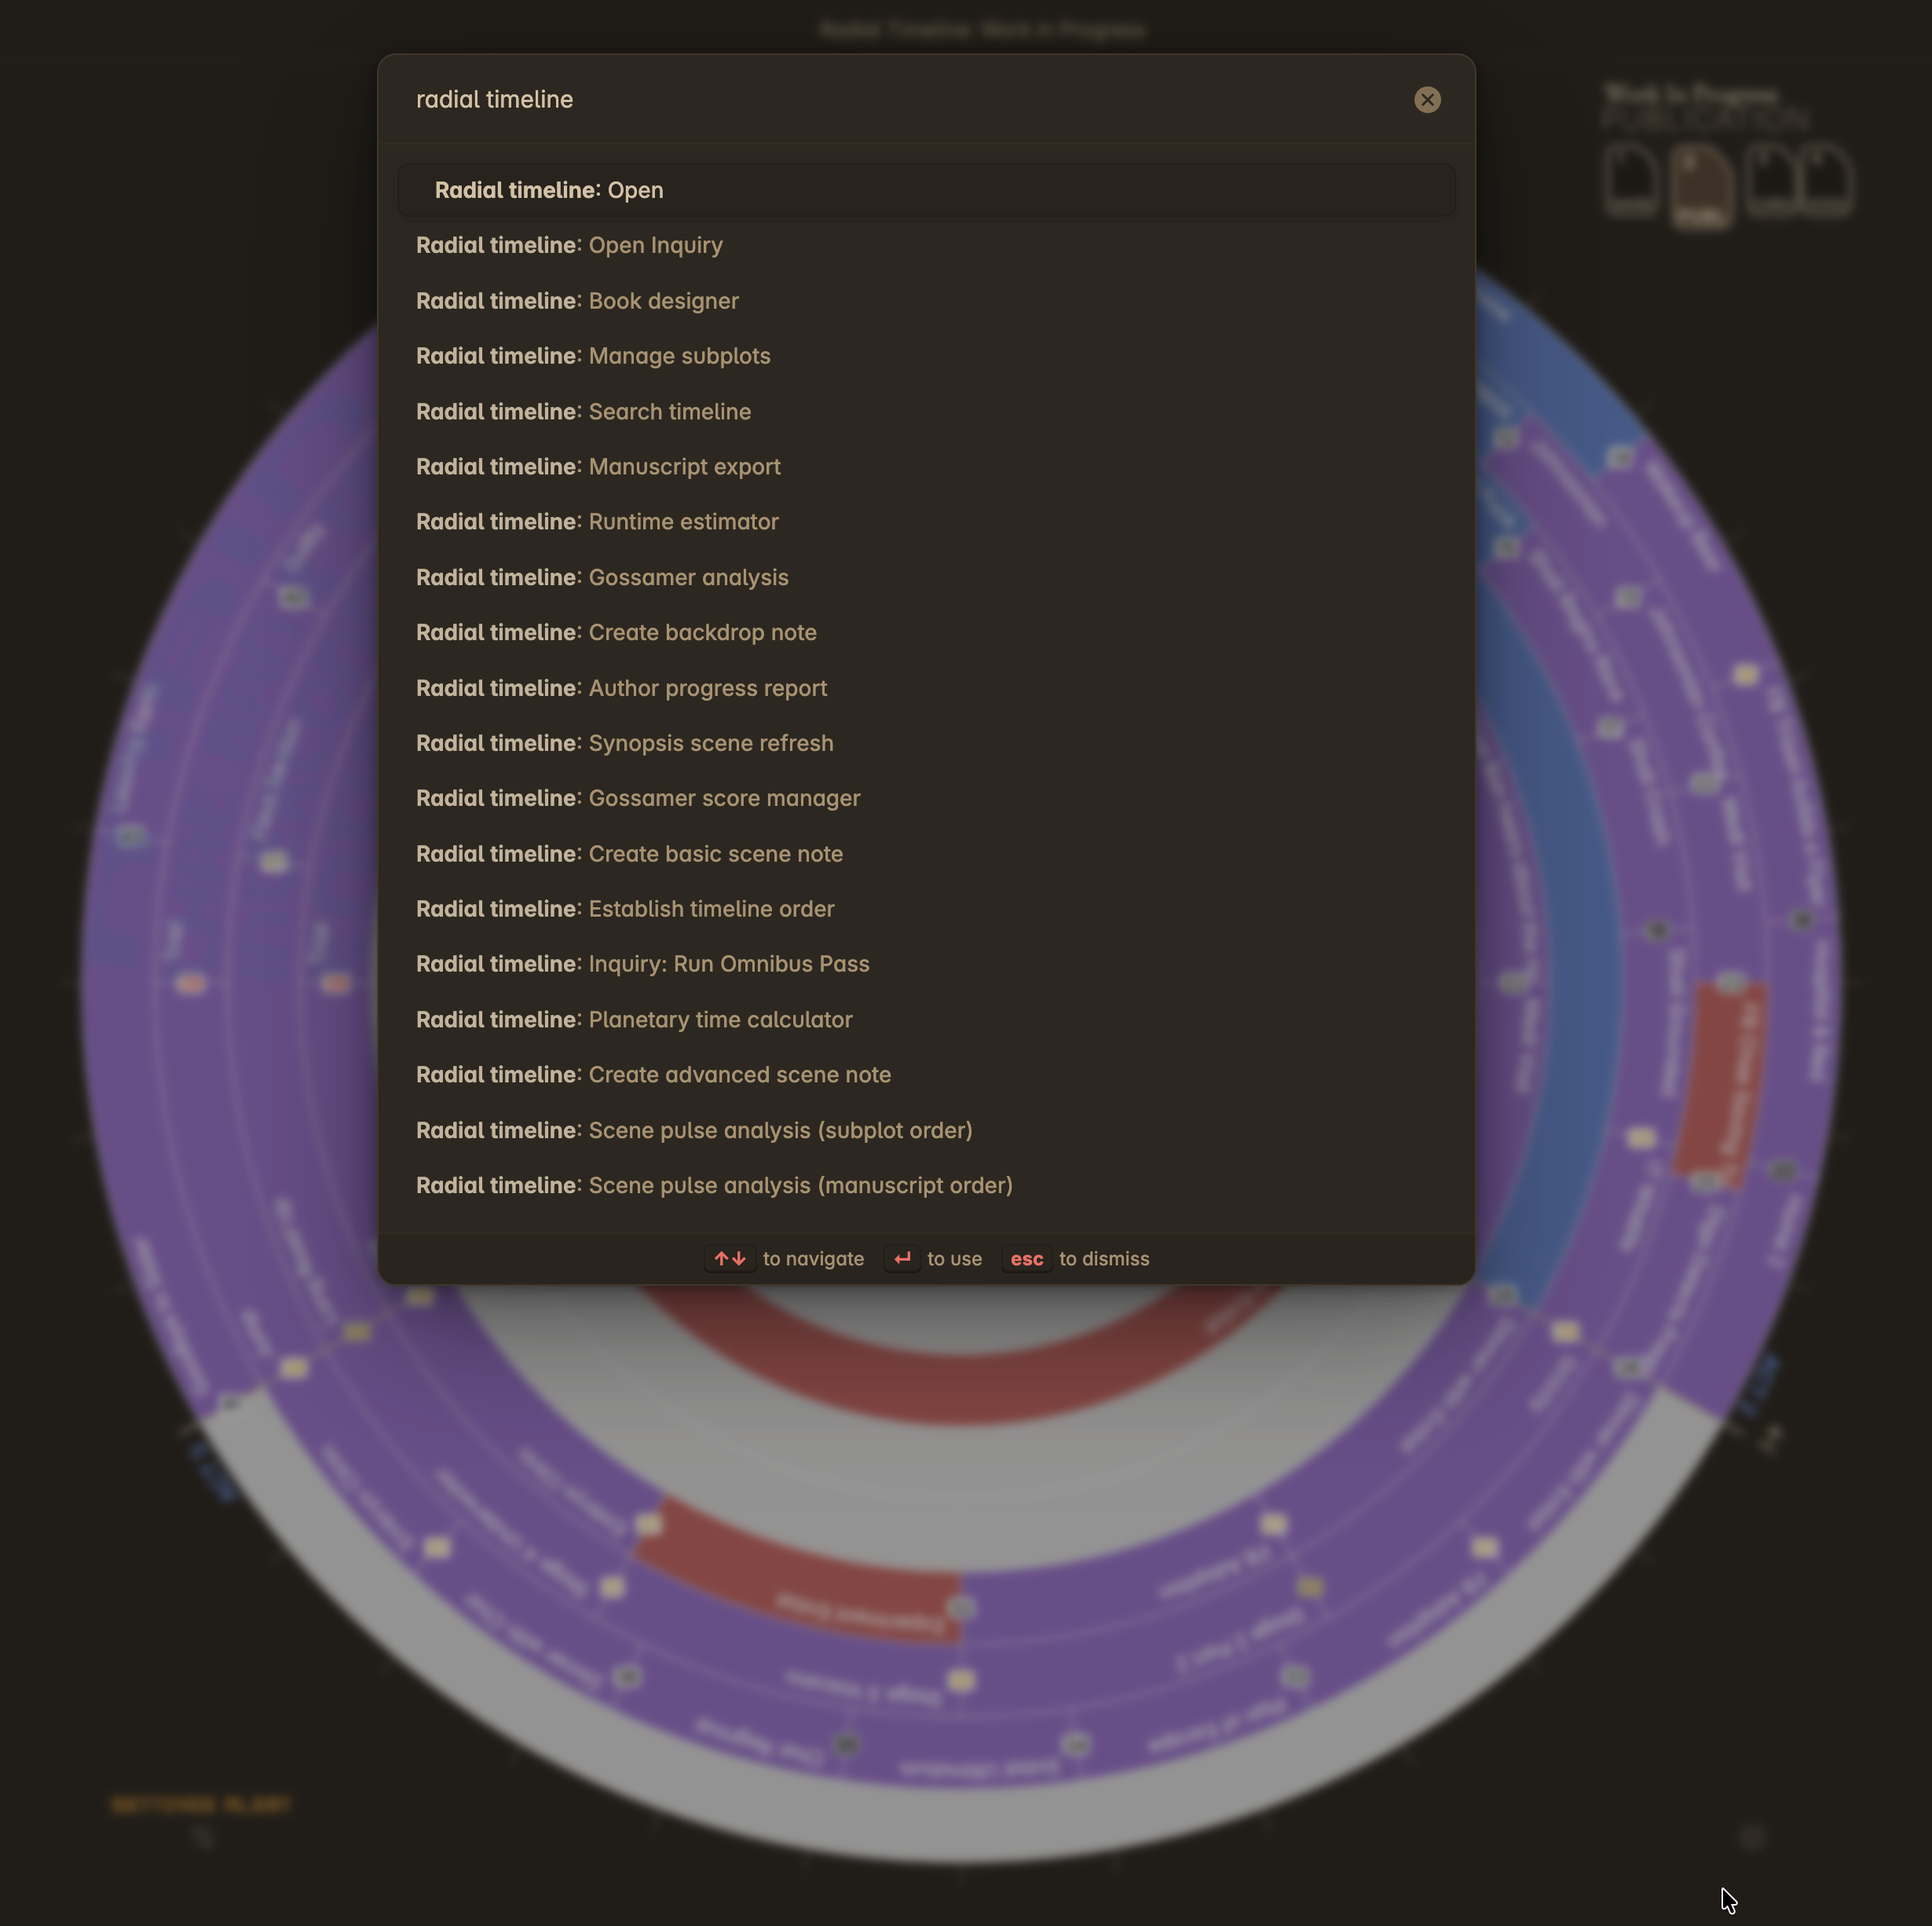
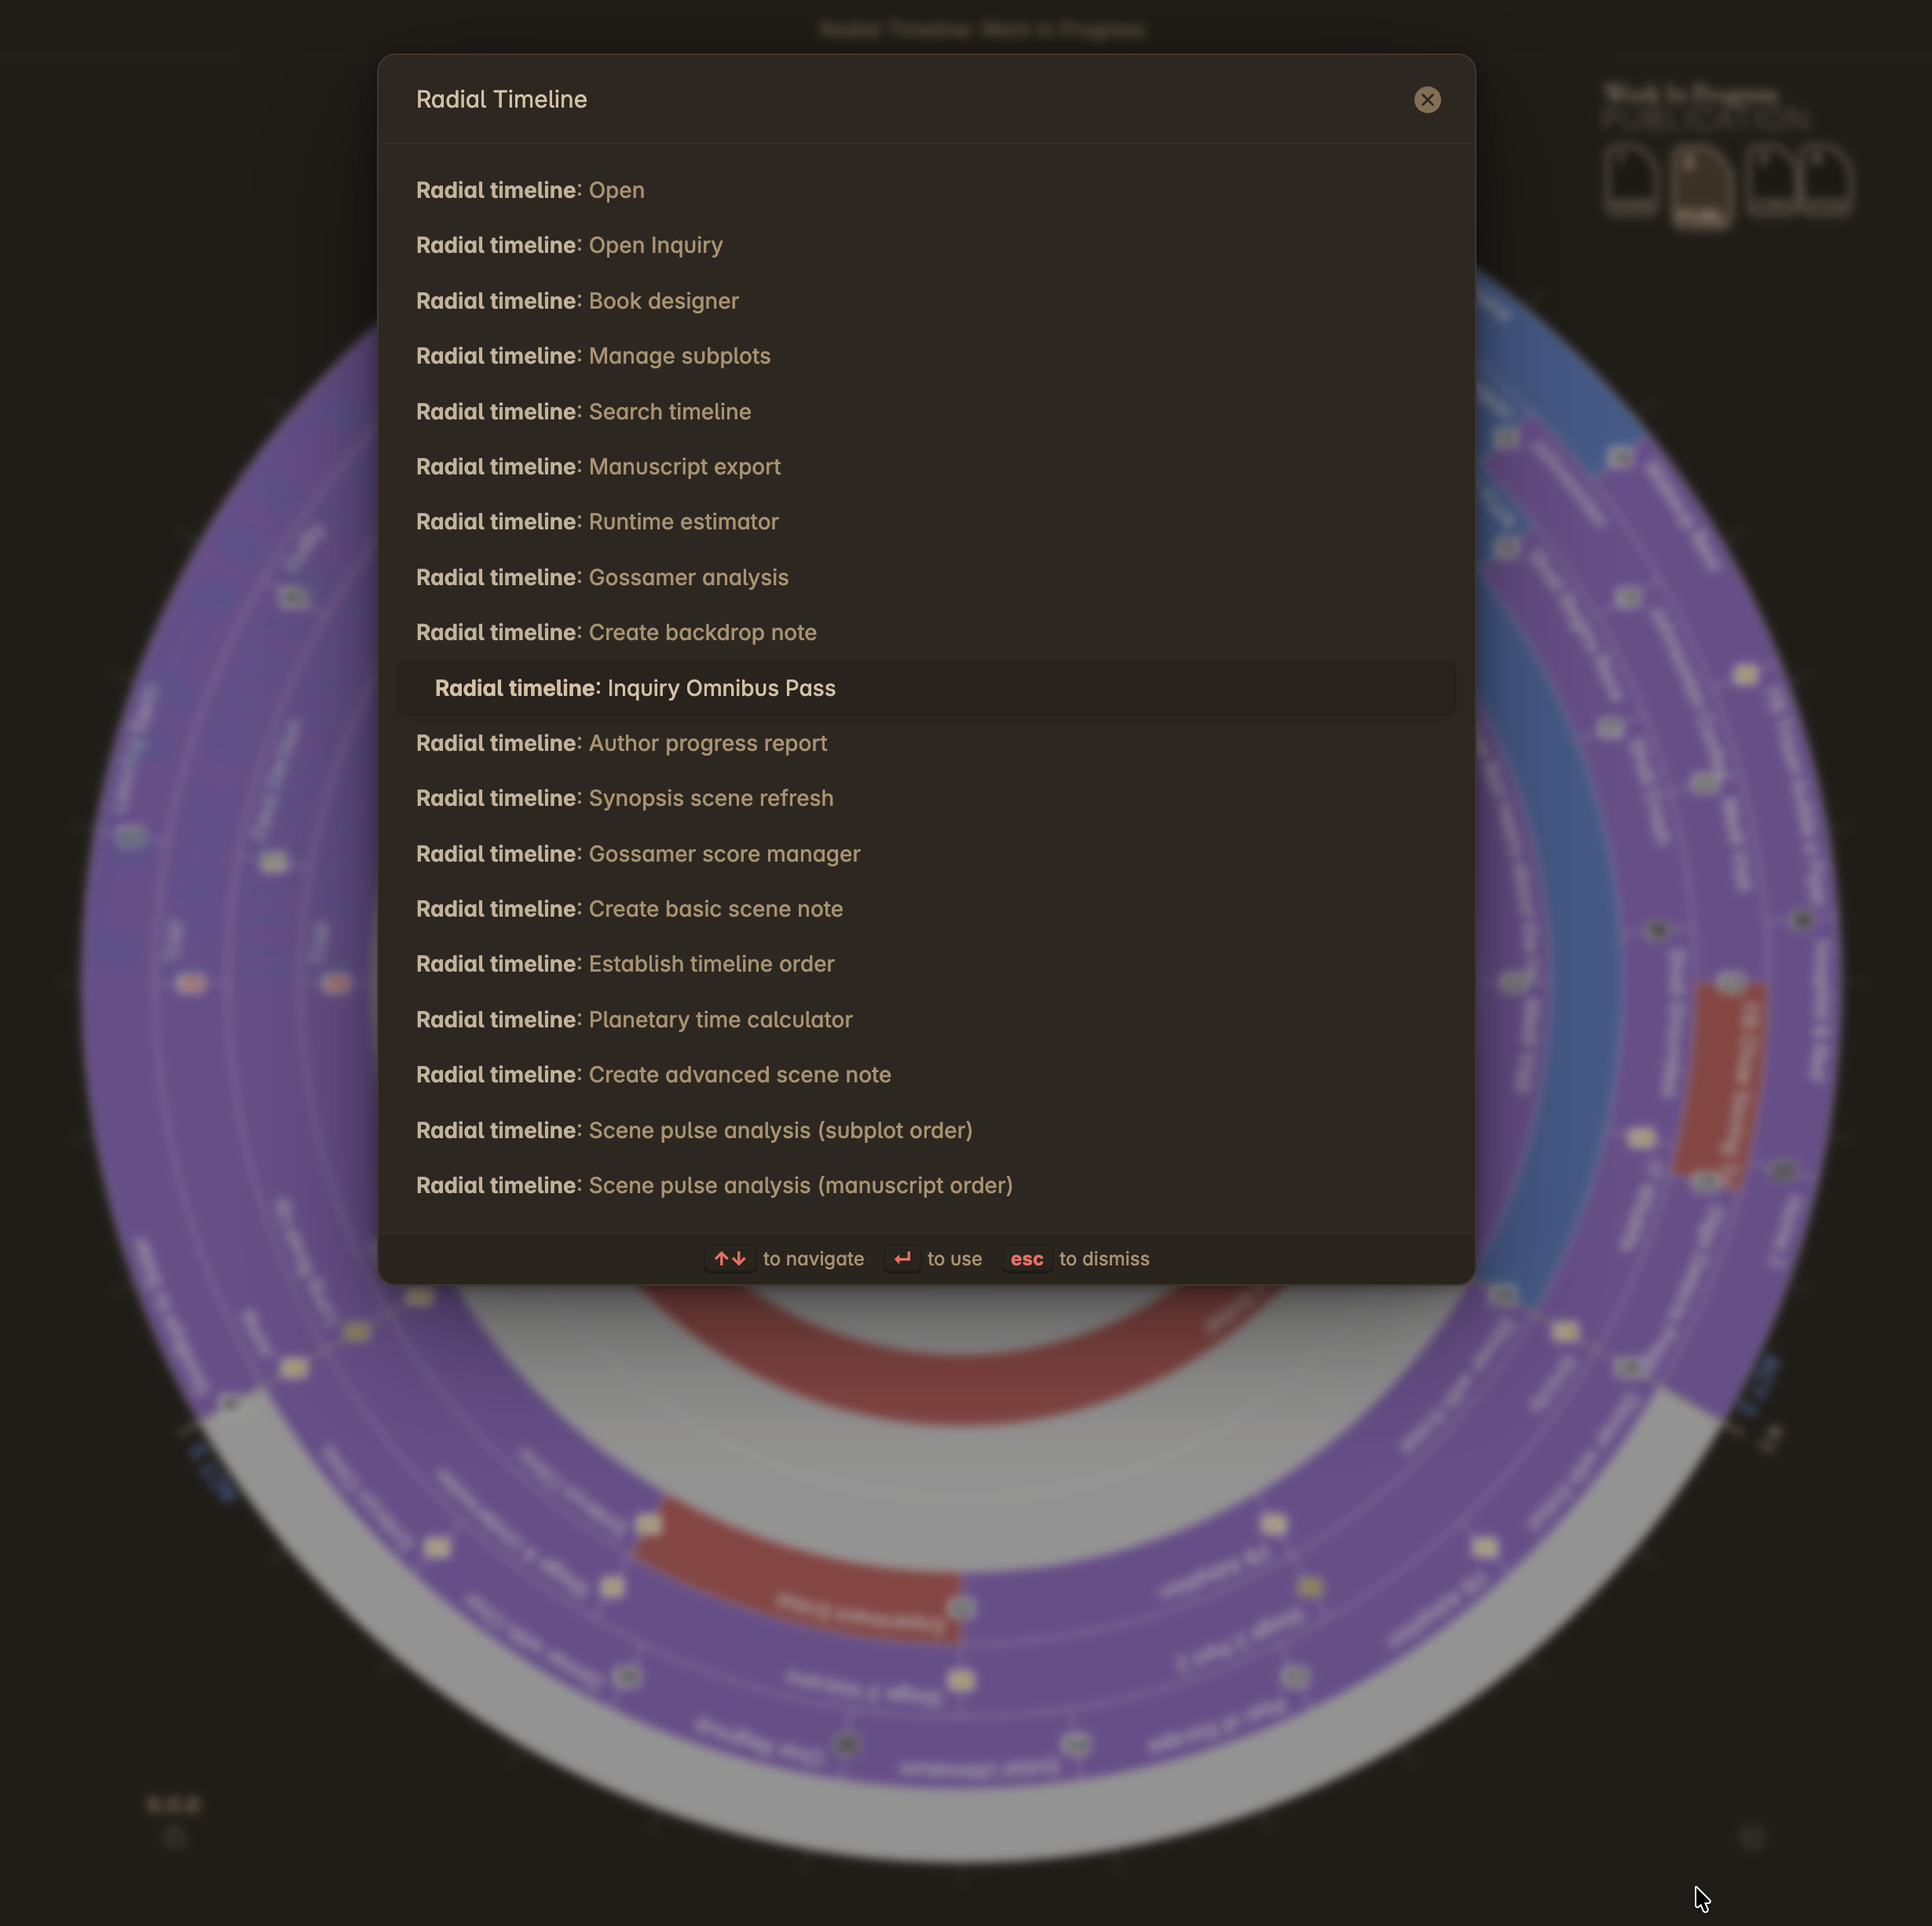
[backup] 2026-02-06 16:28 — src(1), wiki(1) — 2 files — +2/-2
Areas: src(1), wiki(1)\nFiles: src/services/CommandRegistrar.ts, wiki/images/commands.png

diff --git a/src/services/CommandRegistrar.ts b/src/services/CommandRegistrar.ts
@@ -55,8 +55,8 @@ export class CommandRegistrar {
             },
         });
         this.plugin.addCommand({
-            id: 'run-inquiry-omnibus-pass',
-            name: 'Inquiry: Run Omnibus Pass',
+            id: 'inquiry-omnibus-pass',
+            name: 'Inquiry Omnibus Pass',
             callback: async () => {
                 await this.plugin.getInquiryService().runOmnibusPass();
             },
